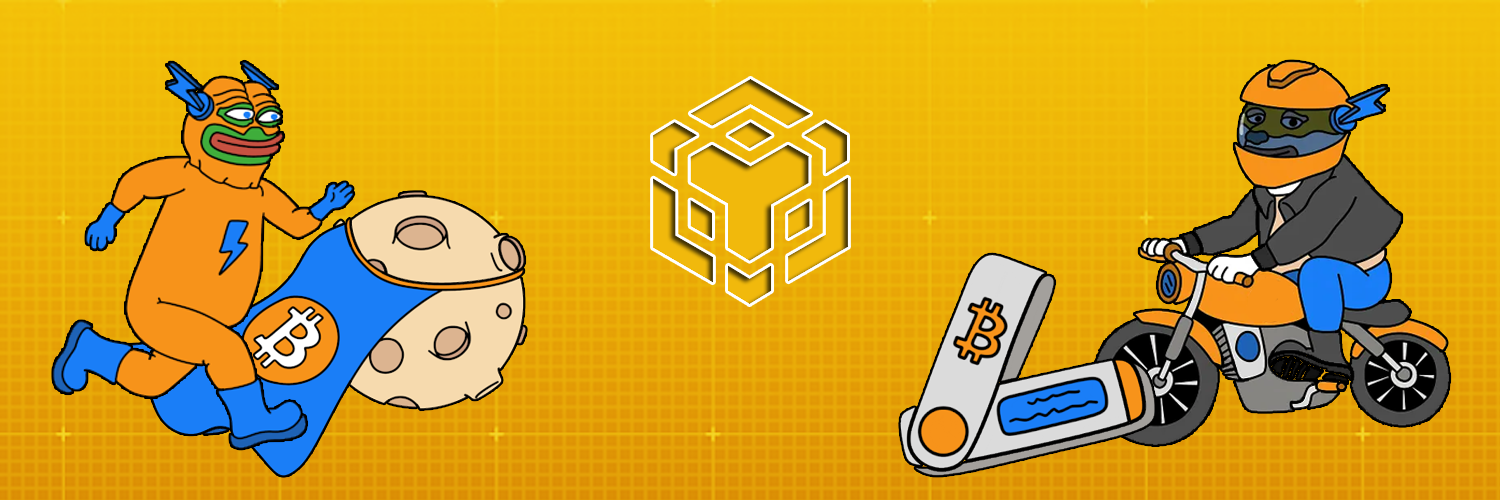
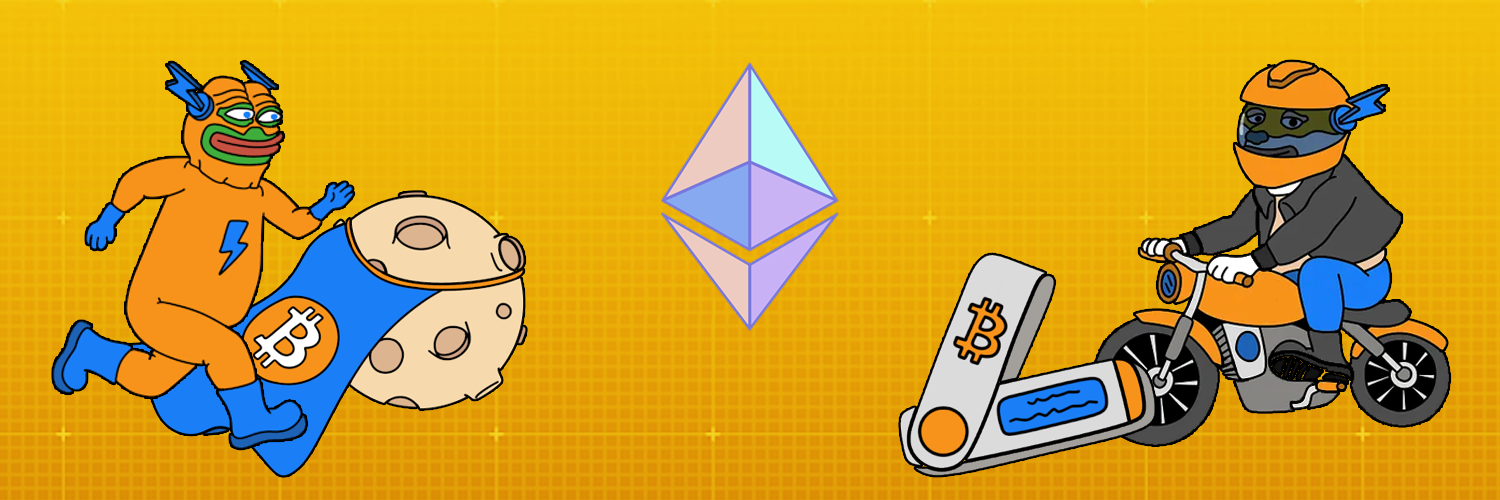
sf

Changed region(s): [[0.4293, 0.12, 0.5827, 0.66]]

diff --git a/assets/index-SsnT0Ror.js b/assets/index-SsnT0Ror.js
@@ -15762,7 +15762,7 @@ function v1() {
             c.jsx("a", {
               className: "nsfw-button hidden md:block",
               children: "⚡ Get $HYPER",
-              href: "https://pancakeswap.finance/swap?inputCurrency=BNB&outputCurrency=0x35673b5be65c277e9a41a2262a8995eb69707c17",
+              href: "https://app.uniswap.org/#/swap?inputCurrency=eth&outputCurrency=0x00000000000000000000000000000000000000",
               target: "_blank",
             }),
             c.jsx("button", {
@@ -15811,7 +15811,7 @@ function v1() {
               c.jsx("a", {
                 className: "nsfw-button w-full mt-4",
                 children: "⚡ Get $HYPER",
-                href: "https://pancakeswap.finance/swap?inputCurrency=BNB&outputCurrency=0x35673b5be65c277e9a41a2262a8995eb69707c17",
+                href: "https://app.uniswap.org/#/swap?inputCurrency=eth&outputCurrency=0x00000000000000000000000000000000000000",
                 target: "_blank",
               }),
             ],
@@ -15900,7 +15900,7 @@ function x1() {
               c.jsx("p", {
                 className:
                   "text-lg md:text-xl text-white/80 mb-8 max-w-4xl mx-auto",
-                children: `Bitcoin Hyper. Building BSC's Future, too.
+                children: `Bitcoin Hyper. Building Ethereum's Future, too.
 
 `,
               }),
@@ -15911,12 +15911,12 @@ function x1() {
               "flex flex-col sm:flex-row gap-4 justify-center items-center mb-12",
             children: [
               c.jsx("a", {
-                href: "https://bscscan.com/address/0x35673b5be65c277e9a41a2262a8995eb69707c17",
+                href: "https://etherscan.io/token/0x00000000000000000000000000000000000000",
                 className: "nsfw-button",
                 children: "View Contract Address",
               }),
               c.jsx("a", {
-                href: "https://pancakeswap.finance/swap?inputCurrency=BNB&outputCurrency=0x35673b5be65c277e9a41a2262a8995eb69707c17",
+                href: "https://app.uniswap.org/#/swap?inputCurrency=eth&outputCurrency=0x00000000000000000000000000000000000000",
                 target: "_blank",
                 className: "nsfw-button",
                 children: "Buy on Pancakeswap",
@@ -16041,7 +16041,7 @@ const w1 = Oh(
 Su.displayName = "Button";
 function S1() {
   const { toast: e } = oh(),
-    t = "0x35673b5be65c277e9a41a2262a8995eb69707c17",
+    t = "0x00000000000000000000000000000000000000",
     n = async () => {
       try {
         await navigator.clipboard.writeText(t),
@@ -16068,7 +16068,7 @@ function S1() {
           children: [
             c.jsx("h2", {
               className: "font-orbitron-black text-4xl text-nsfw-magenta mb-4",
-              children: "🔶 BNB Chain Just Got a Lot... Hotter 😏",
+              children: "🔹 ETH Chain Just Got a Lot... Hotter 😏",
             }),
             c.jsx("p", {
               className: "text-lg text-white/80",
@@ -16103,7 +16103,7 @@ function S1() {
                           c.jsx("div", { children: "⚡⚡⚡⚡⚡⚡⚡⚡⚡⚡⚡⚡⚡⚡⚡⚡⚡⚡⚡⚡⚡⚡⚡⚡⚡⚡⚡" }),
                           
                           c.jsx("div", { children: "Bitcoin Hyper. Building Bitcoin's Future." }),
-                          c.jsx("div", { children: "Bitcoin Hyper. Building BSC's Future, too." }),
+                          c.jsx("div", { children: "Bitcoin Hyper. Building Ethereum's Future, too." }),
                           c.jsx("div", { children: "⚡⚡⚡⚡⚡⚡⚡⚡⚡⚡⚡⚡⚡⚡⚡⚡⚡⚡⚡⚡⚡⚡⚡⚡⚡⚡⚡" }),
 
                           
@@ -16150,7 +16150,7 @@ function S1() {
                         className: "space-y-4",
                         children: [
                           c.jsxs("a", {
-                            href: "https://pancakeswap.finance/swap?inputCurrency=BNB&outputCurrency=0x35673b5be65c277e9a41a2262a8995eb69707c17",
+                            href: "https://app.uniswap.org/#/swap?inputCurrency=eth&outputCurrency=0x00000000000000000000000000000000000000",
                             target: "_blank",
                             className: "my-4",
                             children: [
@@ -16172,7 +16172,7 @@ function S1() {
                             children: "",
                           }),
                           c.jsxs("a", {
-                            href: "https://www.dextools.io/app/en/bnb/pair-explorer/0x35673b5be65c277e9a41a2262a8995eb69707c17",
+                            href: "https://www.dextools.io/app/en/ether/pair-explorer/0xdex",
                             target: "_blank",
                             className: "my-4",
                             children: [
@@ -16572,7 +16572,7 @@ function _1() {
               children: r.map((i) => c.jsx(o, { content: i }, i.id)),
             }),
             c.jsxs("a", {
-              href: "https://www.dextools.io/app/en/bnb/pair-explorer/0x35673b5be65c277e9a41a2262a8995eb69707c17",
+              href: "https://www.dextools.io/app/en/ether/pair-explorer/0xdex",
               target: "_blank",
               children: [
                 c.jsxs("div", {
@@ -16646,7 +16646,7 @@ function I1() {
       number: 1,
       title: "Get a Wallet",
       description:
-        "Download MetaMask or another BNB-compatible wallet from their official website.",
+        "Download MetaMask or another ETH-compatible wallet from their official website.",
       gradient: "crypto-pink-gradient",
       buttons: [
         {
@@ -16663,9 +16663,9 @@ function I1() {
     },
     {
       number: 2,
-      title: "Buy BNB",
+      title: "Buy ETH",
       description:
-        "Purchase BNB from a reputable exchange and transfer it to your wallet.",
+        "Purchase ETH from a reputable exchange and transfer it to your wallet.",
       gradient: "crypto-turquoise-gradient",
       buttons: [
         {
@@ -16698,7 +16698,7 @@ function I1() {
       number: 4,
       title: "Swap & HODL",
       description:
-        "Set slippage to 1-3%, swap your BNB for Bitcoin Hyper tokens, and hold for the moon! 🚀",
+        "Set slippage to 1-3%, swap your ETH for Bitcoin Hyper tokens, and hold for the moon! 🚀",
       gradient: "bg-gradient-to-r from-purple-500 to-pink-500",
       buttons: [],
     },
@@ -16808,7 +16808,7 @@ function D1() {
       color: "from-nsfw-cyan to-nsfw-magenta",
       textColor: "text-nsfw-cyan",
       members: "Join Now",
-      url: "https://t.me/BitcoinHyperBNB",
+      url: "https://t.me/HyperErc20",
     },
     {
       name: "X",
@@ -16817,7 +16817,7 @@ function D1() {
       color: "from-nsfw-magenta to-nsfw-cyan",
       textColor: "text-nsfw-magenta",
       members: "Follow",
-      url: "https://x.com/BitcoinHyperBNB",
+      url: "https://x.com/HyperErc20",
     },
     {
       name: "DexScreener",
@@ -16826,7 +16826,7 @@ function D1() {
       color: "from-nsfw-cyan to-nsfw-magenta",
       textColor: "text-nsfw-cyan",
       members: "View Chart",
-      url: "https://dexscreener.com/ethereum/0x35673b5be65c277e9a41a2262a8995eb69707c17",
+      url: "https://dexscreener.com/ethereum/0x00000000000000000000000000000000000000",
     },
     {
       name: "Coingecko",
@@ -16909,15 +16909,15 @@ function z1() {
         icon: "📱",
         name: "Telegram",
         color: "hover:text-nsfw-cyan",
-        url: "https://t.me/BitcoinHyperBNB",
+        url: "https://t.me/HyperErc20",
       },
       {
         icon: "🐦",
         name: "X", 
         color: "hover:text-nsfw-cyan",
-        url: "https://x.com/BitcoinHyperBNB",
+        url: "https://x.com/HyperErc20",
       },
-      { icon: "📊", name: "DexTools", color: "hover:text-nsfw-cyan", url: "https://www.dextools.io/app/en/bnb/pair-explorer/0x35673b5be65c277e9a41a2262a8995eb69707c17" },
+      { icon: "📊", name: "DexTools", color: "hover:text-nsfw-cyan", url: "https://www.dextools.io/app/en/ether/pair-explorer/0xdex" },
     ],
     r = (o) => {
       const s = {
@@ -17042,7 +17042,7 @@ function z1() {
                     c.jsx("div", {
                       className: "text-gray-300 break-all font-space",
                       children:
-                        "Contract: 0x35673b5be65c277e9a41a2262a8995eb69707c17",
+                        "Contract: 0x00000000000000000000000000000000000000",
                     }),
                   ],
                 }),

diff --git a/index.html b/index.html
@@ -9,14 +9,14 @@
     <title>Bitcoin Hyper - $HYPER Token</title>
     <meta
       name="description"
-      content="Bitcoin Hyper. Building BSC's Future, too. "
+      content="Bitcoin Hyper. Building Ethereum's Future, too. "
     />
 
     <!-- Open Graph tags -->
     <meta property="og:title" content="Bitcoin Hyper - $HYPER Token" />
     <meta
       property="og:description"
-      content="Bitcoin Hyper. Building BSC's Future, too."
+      content="Bitcoin Hyper. Building Ethereum's Future, too."
     />
     <meta
       property="og:image"
